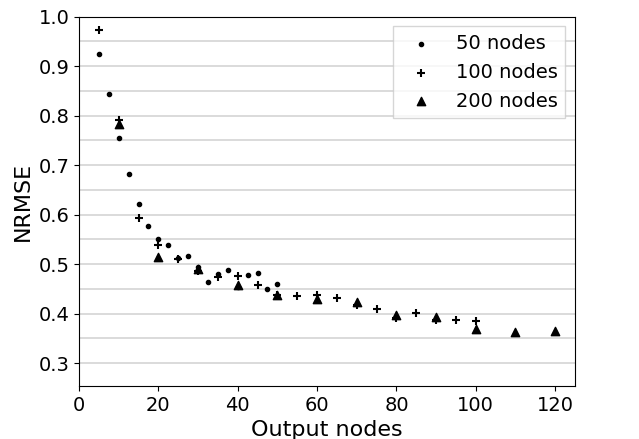
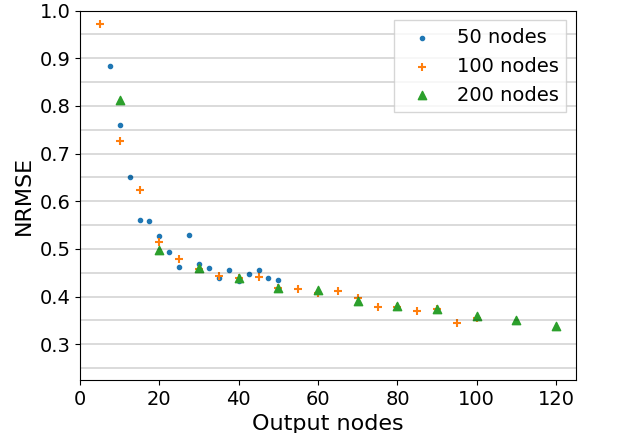
Finished.

Changed region(s): [[0.0, 0.0, 0.892, 1.0], [0.6541, 0.1501, 0.6839, 0.1801]]

diff --git a/sections/results.tex b/sections/results.tex
@@ -51,8 +51,8 @@ quantization bits. As discrete output states move beneath a quantization of 10
 bits, the error quickly increases. However, even with just 4 bits to discretely
 separate outputs, reservoirs are still able to replicate the input sequence to
 some degree. Furthermore, reservoirs with 400 hidden nodes and just 64 output
-bins consistently provide the same error rates as that of a reservoir with 50
-hidden nodes and no output quantization.
+bins (6 bits) consistently provide the same error rates as that of a reservoir
+with 50 hidden nodes and no output quantization.
 
 A 12-bit ADC has $2^{12}$, or 4096 output codes, which in accordance with our
 experiments would impose little increase in the prediction error. 16-bit ADCs,
@@ -97,7 +97,7 @@ input and output matrices containing non-zero elements.
 \end{figure*}
 
 First, we investigate partially visible reservoirs by adjusting the sparsity of
-$\mathbf{W}_{in}$. Results are shown in Fig. \ref{partial_visibility}a, in which
+$\mathbf{W}^{in}$. Results are shown in Fig. \ref{partial_visibility}a, in which
 all experiments were done with a uniform input weight distribution in the
 interval [-0.5, 0.5].
 
@@ -167,19 +167,20 @@ distributions lie around NRMSE $\approx 0.25$.
 \end{figure}
 
 It is well-established in RC methodology that using a uniform distribution of
-input weights in some interval [-a, a] gives good performance. However, is it
-possible to achieve a competitive error rate using other weight distributions?
-Fig. \ref{input_scaling_distrib} explores the performance of ESNs with three
-different input weight distributions: uniform, Gaussian and fixed. Despite the
-performance disparity with increasing input scaling, the best error rates of all
-three classes hover around the same NRMSE of around 0.25. This demonstration of
-scaling differently distributed inputs such that they all achieve acceptable
-performance bodes well for physical RC. In particular, we observe a promising
-result when considering RC with physical substrates in which every node is
-forced to receive the same input. Exploring different $\mathbf{W}_{in}$
-distributions in ESNs may give an intuition for its importance as a reservoir
-parameter, which may provide valuable in reservoir design, as one may resort to
-the simplest or cheapest solution.
+input weights in some interval [-a, a] gives good performance
+\cite{montavon_practical_2012}. However, is it possible to achieve a competitive
+error rate using other weight distributions?  Fig. \ref{input_scaling_distrib}
+explores the performance of ESNs with three different input weight
+distributions: uniform, Gaussian and fixed. Despite the performance disparity
+with increasing input scaling, the best error rates of all three classes hover
+around the same NRMSE of around 0.25. This demonstration of scaling differently
+distributed inputs such that they all achieve acceptable performance bodes well
+for physical RC. In particular, we observe a promising result when considering
+RC with physical substrates in which every node is forced to receive the same
+input. Exploring different $\mathbf{W}^{in}$ distributions in ESNs may give an
+intuition for its importance as a reservoir parameter, which may provide
+valuable in reservoir design, as one may resort to the simplest or cheapest
+solution.
 
 %%% Local Variables:
 %%% mode: latex

diff --git a/sections/methods.tex b/sections/methods.tex
@@ -4,13 +4,13 @@ single input, and a single output node.
 The default reservoir size used is 200 hidden nodes. $\mathbf{W}^{res}$ and
 $\mathbf{W}^{in}$ are both generated as random matrices with i.i.d. entries in
 the interval [-0.5, 0.5]. Both matrices are fully connected, and the reservoir
-weight matrix was rescaled such that $\rho(\mathbf{W}_{res}) = 0.9$. This method
-for instantiating $\mathbf{W}_{res}$ and $\mathbf{W}_{in}$ is common practice in
-RC. Input scaling is set to $\iota = 1.0$, as the parameter was found to have
-little impact on performance when initializing $\mathbf{W}_{in}$ from a uniform
-distribution. $\mathbf{W}_{out}$ is adapted with the Moore-Penrose
-pseudo-inverse using singular value decomposition, as this was found to lead to
-the best results.
+weight matrix was rescaled such that $\rho(\mathbf{W}^{res}) = 0.9$. This method
+for instantiating $\mathbf{W}^{res}$ and $\mathbf{W}^{in}$ is common practice in
+RC \cite{montavon_practical_2012}. Input scaling is set to $\iota = 1.0$, as the
+parameter was found to have little impact on performance when initializing
+$\mathbf{W}^{in}$ from a uniform distribution. $\mathbf{W}^{out}$ is adapted
+with the Moore-Penrose pseudo-inverse using singular value decomposition, as
+this was found to lead to the best results.
 
 The first 200 states of each run are discarded to provide a washout of the
 initial reservoir state. For all experiments, the generated input was split into
@@ -56,8 +56,8 @@ representative is run 20 times.
 
 \subsection{Partially visible reservoir state}
 
-We begin by experimenting with the sparsity of $\mathbf{W}_{in}$ and
-$\mathbf{W}_{out}$. In both cases, we now generate the connection matrices such
+We begin by experimenting with the sparsity of $\mathbf{W}^{in}$ and
+$\mathbf{W}^{out}$. In both cases, we now generate the connection matrices such
 that a wanted density, given as the fraction of connected nodes, is
 achieved. Input and output is adjusted separately. For the input density
 experiment each model representative is run 50 times to determine that there is

diff --git a/sections/limitations.tex b/sections/limitations.tex
@@ -67,8 +67,9 @@ ADC.
 Common ADC errors include gain error, which causes the slope of the transfer
 function to deviate from the ideal slope, and offset error, in which the slope
 of the transfer function is offset by some constant amount. In both of these
-cases, the use of regression methods will cause no performance penalty as a
-result of the error.
+cases, assuming that the error is approximately linear, the use of regression
+methods will make up for this error by scaling and offsetting with the readout
+weights, thus causing no performance penalty.
 
 A more general problem present in ADCs, which is also manifested similarly in
 virtually all measurement methods, is the resolution of the output signal that
@@ -109,8 +110,8 @@ spin ice, recently deemed a highly promising substrate for material computation
 manipulated in many ways. A common approach is external magnetic fields, which
 proposes a choice between a global application to the entire assembly and to
 more specific, narrow areas. When attaching input units to the ESN reservoir by
-weights, experience has shown that choosing $\mathbf{W}_{in}$ can be done freely
-as long as $\rho(\mathbf{W}_{res}) < 1$ is satisfied \cite{jaeger_echo_2001},
+weights, experience has shown that choosing $\mathbf{W}^{in}$ can be done freely
+as long as $\rho(\mathbf{W}^{res}) < 1$ is satisfied \cite{jaeger_echo_2001},
 which is an enticing prospect in the context of physical reservoirs.
 
 %%% Local Variables:

diff --git a/sections/introduction.tex b/sections/introduction.tex
@@ -35,8 +35,8 @@ leading to a divergence between the performances observed
 The extent of the performance degradation caused by physical limitations is not
 readily understood. Hence, as implementations of reservoir systems increasingly
 tend toward physical substrates, the computational performance may be affected
-by intrinsic physical limitations such as noise, measurement equipment accuracy,
-partially visible reservoir state, and physical morphology.
+by intrinsic physical limitations. We explore noise, measurement equipment
+accuracy, and partially visible reservoir state.
 
 Reservoir robustness to noise is a primary concern that has been demonstrated
 both numerically and experimentally in an optoeletronic setting, where

diff --git a/sections/background.tex b/sections/background.tex
@@ -26,7 +26,7 @@ providing a least squares optimum.
 At time-step $t$, the ESN reservoir is defined by its input, internal, and
 output units, denoted by $\mathbf{u}(t)$, $\mathbf{x}(t)$, and $\mathbf{y}(t)$,
 respectively. The reservoir dynamics are characterized by three weight matrices,
-$\mathbf{W}^{in}$, $\mathbf{W}^{res}$, and $\mathbf{W}_{out}$. In the
+$\mathbf{W}^{in}$, $\mathbf{W}^{res}$, and $\mathbf{W}^{out}$. In the
 traditional ESN approach, the reservoir state is thus evolved according to
 
 \begin{equation}

diff --git a/py/plot.py b/py/plot.py
@@ -133,7 +133,7 @@ def plot_output_nodes(dataset):
     markers = ['.', '+', '^']
     for i, _nrmses in enumerate(nrmses):
         x = density*hidden_nodes[i]
-        plt.scatter(x, np.squeeze(_nrmses), color='black', marker=markers[i], label=labels[i])
+        plt.scatter(x, np.squeeze(_nrmses), marker=markers[i], label=labels[i])
 
     plt.ylabel('NRMSE')
     plt.xlabel('Output nodes')
